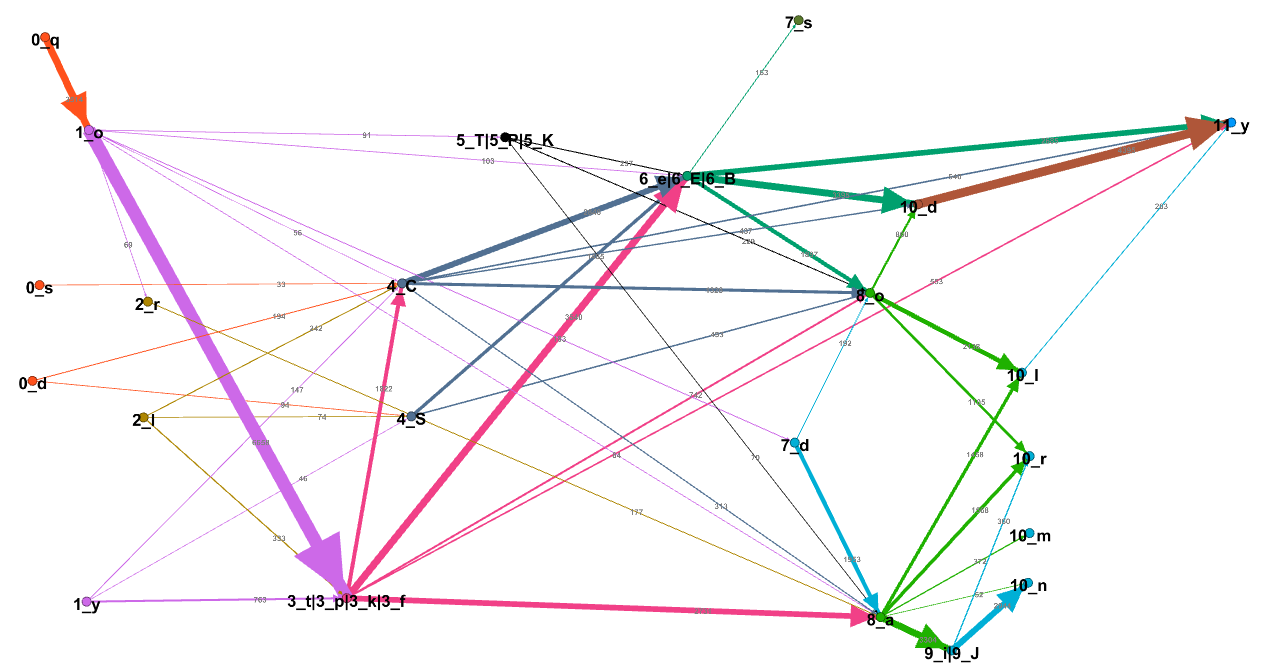
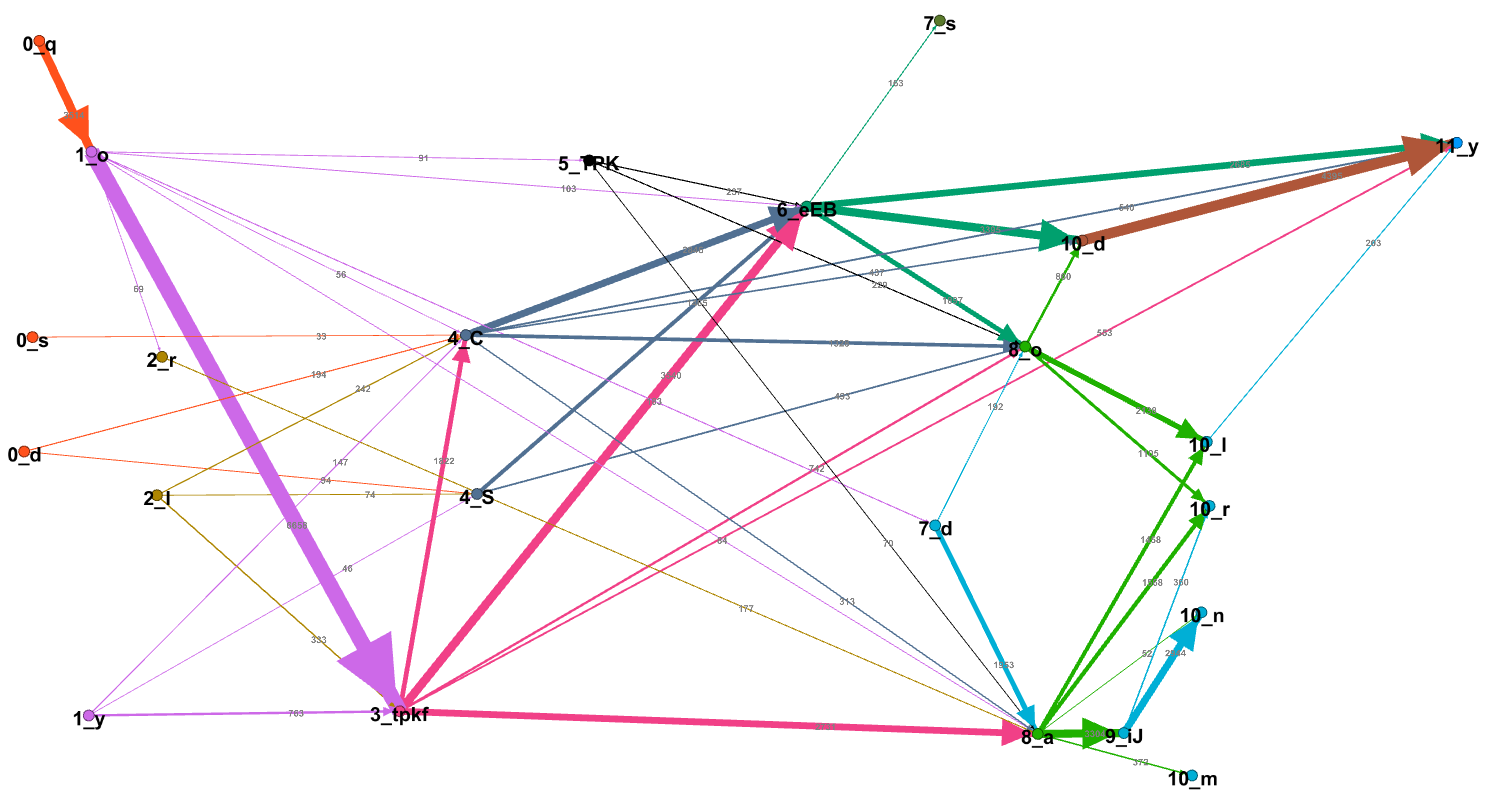
Writing note 008

diff --git a/docs/008/index.md b/docs/008/index.md
@@ -29,7 +29,9 @@ as it is typically possible to move from one representation to an equivalent one
  
 # Methodology
 
-I wrote some code [{1}](#Note1) that, starting from the list of terms in the concordance version of the Voynich (see [Note 001](../001)), creates a state machine which is described by the below grammar [{2}](#Note2); in this notation:
+I wrote some code [{1}](#Note1) that, starting from the list of terms in the concordance version of the Voynich (see [Note 001](../001)), creates a state machine which is described by the below grammar [{2}](#Note2).
+
+The notation:
 
 ```
 S:
@@ -43,50 +45,50 @@ Of course, this list does not match exactly the list of terms in the Voynich (th
 ```
 <BEGIN>:
 	 -> 0_d, 0_q, 0_s, 1_o, 1_y, 2_l, 2_r,
-	    3_t|3_p|3_k|3_f, 4_C, 4_S, 5_T|5_P|5_K, 7_d, 8_a
+	    3_tpkf, 4_C, 4_S, 5_TPK, 7_d, 8_a
 
 0_d:
-	d ->      4_C, 4_S
+	d ->     4_C, 4_S
 0_q:
 	q -> 1_o
 0_s:
-	s ->      4_C
+	s ->     4_C
 
 1_o:
-	o -> 2_r, 3_t|3_p|3_k|3_f, 4_C,      5_T|5_P|5_K, 6_e|6_E|6_B, 7_d, 8_a
+	o -> 2_r, 3_tpkf, 4_C,     5_TPK, 6_eEB, 7_d, 8_a
 1_y:
-	y ->      3_t|3_p|3_k|3_f, 4_C, 4_S
+	y ->      3_tpkf, 4_C, 4_S
 
 2_l:
-	l -> 3_t|3_p|3_k|3_f, 4_C, 4_S
+	l -> 3_tpkf, 4_C, 4_S
 2_r:
-	r ->                            8_a
+	r ->                  8_a
 
-3_t|3_p|3_k|3_f:
-	f, k, p, t -> 4_C, 6_e|6_E|6_B, 8_a, 8_o, 11_y
+3_tpkf:
+	f, k, p, t -> 4_C, 6_eEB, 8_a, 8_o, 11_y
 
 4_C:
-	ch -> 6_e|6_E|6_B, 8_a, 8_o, 10_d, 11_y
+	ch -> 6_eEB, 8_a, 8_o, 10_d, 11_y
 4_S:
-	sh -> 6_e|6_E|6_B,      8_o
+	sh -> 6_eEB,      8_o
 
-5_T|5_P|5_K:
-	ckh, cph, cth -> 6_e|6_E|6_B, 8_a, 8_o
+5_TPK:
+	ckh, cph, cth -> 6_eEB, 8_a, 8_o
 
-6_e|6_E|6_B:
-	e, ee, eee -> 7_s, 8_o, 10_d, 11_y,     <END>
+6_eEB:
+	e, ee, eee -> 7_s, 8_o, 10_d, 11_y, <END>
 
 7_d:
 	d -> 8_a, 8_o
 7_s:
-	s ->           <END>
+	s ->          <END>
 
 8_a:
-	a -> 9_i|9_J,       10_l, 10_m, 10_n, 10_r
+	a -> 9_iJ,       10_l, 10_m, 10_n, 10_r
 8_o:
-	o ->          10_d, 10_l,             10_r, <END>
+	o ->       10_d, 10_l,             10_r, <END>
 
-9_i|9_J:
+9_iJ:
 	i, ii -> 10_n, 10_r
 
 10_d:
@@ -200,11 +202,11 @@ The table below compares our grammar with other models described in [Note 006](.
 <a id="Note1">**{1}**</a> Class [`BuildSlotStateMachine`](https://github.com/mzattera/v4j/blob/v.9.0.0/eclipse/io.github.mzattera.v4j-apps/src/main/java/io/github/mzattera/v4j/applications/slot/BuildSlotStateMachine.java) was used for
 this purpose. It provides means to generate and evaluate state machines and output thm indifferent formats, including a grammar and Java code.
 
-<a id="Note2">**{2}**</a> A parameter my code use, is the minimum amount of terms using an edge of the state machine
+<a id="Note2">**{2}**</a> A parameter my code uses is the minimum amount of terms using an edge of the state machine
 (that is, a specific sequence of two characters). For the machine in this note, I used a minimum weight of 10.
-A machine with higher F-Score (TP=1'194, Precision=0.371, Recall=0.232, F-score0.286)  can be created using a minimum weight of 5; its grammar is described in 
-[StateMachine05_grammar.txt](https://github.com/mzattera/v4j/blob/v.9.0.0/resources/analysis/slots/StateMachine05_grammar.txt) and a graphical representation suitable fro Gephi can be found in `StateMachine05.gephi` in [same folder](https://github.com/mzattera/v4j/blob/v.9.0.0/resources/analysis/slots/).
-I this discussion I am ignoring it, as it is also slightly more complex that the one presented here.
+A machine with higher F-Score (TP=1'194, Precision=0.371, Recall=0.232, F-score=0.286)  can be created using a minimum weight of 5; its grammar is described in 
+[StateMachine05_grammar.txt](https://github.com/mzattera/v4j/blob/v.9.0.0/resources/analysis/slots/StateMachine05_grammar.txt) and a graphical representation suitable for [Gephi](https://gephi.org/) can be found in `StateMachine05.gephi` in [same folder](https://github.com/mzattera/v4j/blob/v.9.0.0/resources/analysis/slots/).
+I this discussion, I am ignoring it, as it is also slightly more complex that the one presented here.
 
 <a id="Note3">**{3}**</a> A version of this graph that can be visualized using [Gephi](https://gephi.org/) (`StateMachine.gephi`) is stored [here](https://github.com/mzattera/v4j/tree/master/resources/analysis/slots).
 
